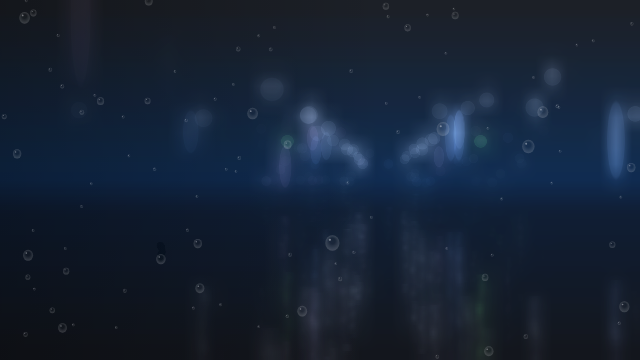
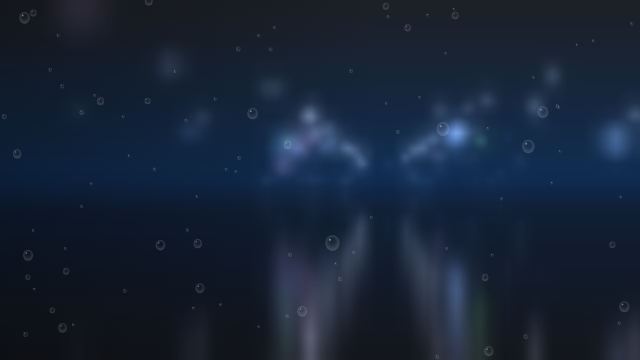
Rain on glass: every light a soft round glow, opaque in the middle and clear at the edge; reflections stay put and fade in smoothly instead of crawling upwards

diff --git a/effects/rain-glass/index.js b/effects/rain-glass/index.js
@@ -46,7 +46,7 @@ function readTones(host, scheme) {
 }
 
 // A fogged window on a rainy night, the street behind it out of focus: only its lights, as soft
-// discs. Lamps run off in rows, a cross street brings a row of its own, neon bars change colour and
+// discs. Lamps run off in rows, a cross street brings a row of its own, neon lights change colour and
 // flicker, the city glows far off; each light trembles as a long streak on the wet road. At the
 // crossing a traffic light turns: on red the cars on this street wait and the cross traffic goes.
 // On the glass, drops gather and now and then one runs down; a finger wipes fog and drops away, and
@@ -80,7 +80,7 @@ const SCENE = {
       r.beginPath(); r.moveTo(x, y); r.lineTo(x - len * 0.1, y + len); r.stroke();
     }
     for (let i = 0; i < w * h / 2600; i += 1) st.drops.push(drop(st, random() * w, random() * h));
-    // The lights of the street: lamps both sides and across the crossing, neon bars on the facades,
+    // The lights of the street: lamps both sides and across the crossing, neon on the facades,
     // and the far city as a scatter of small dim points.
     const L = st.lights = [], d = values.density / 100;
     for (let z = low ? 16 : 5; z < 80; z += 4 + random() * 5) for (const s of [-1, 1]) if (random() < 0.8) L.push({X: s * (4.6 + random()), Y: 5 + random() * 2, z: z + random() * 3, c: 'lamp', s: 0.3 + random() * 0.5, ph: random() * 9});
@@ -88,7 +88,7 @@ const SCENE = {
     for (let i = 0; i < 8 + d * 14; i += 1) {
       const s = random() < 0.5 ? -1 : 1, z = 7 + random() * 45;
       if (z > 19 && z < 25) continue;
-      L.push({X: s * (6.5 + random() * 2), Y: 2.5 + random() * 4, z, c: Math.floor(random() * 3), s: 0.35, bar: 1.2 + random() * 3, ph: random() * 40, kind: Math.floor(random() * 3)});
+      L.push({X: s * (6.5 + random() * 2), Y: 2.5 + random() * 4, z, c: Math.floor(random() * 3), s: 0.7 + random() * 1.3, ph: random() * 40, kind: Math.floor(random() * 3)});
     }
     for (let i = 0; i < 20 + d * 40; i += 1) L.push({X: (random() - 0.5) * 60, Y: 1 + random() ** 2 * 12, z: 50 + random() * 60, c: random() < 0.6 ? 'lamp' : Math.floor(random() * 3), s: 0.4, ph: random() * 40, dim: 0.15 + random() * 0.3});
     return st;
@@ -122,29 +122,29 @@ const SCENE = {
     g.addColorStop(0, rgba(tones.sky)); g.addColorStop(st.hor / h, rgba(mixc(tones.sky, P.glow, 0.6))); g.addColorStop(Math.min(1, st.hor / h + 0.08), rgba(mixc(tones.ground, P.glow, 0.3))); g.addColorStop(1, rgba(tones.ground));
     s.fillStyle = g; s.fillRect(0, 0, w, h);
     s.globalCompositeOperation = 'lighter';
-    const blob = (X, Y, z, colour, size, a, bar = 0) => {
-      const [x, y] = at(X, Y, z), p = st.f / z, r = size * p * 0.5 + st.blur, tall = bar * p;
+    const blob = (X, Y, z, colour, size, a) => {
+      const [x, y] = at(X, Y, z), p = st.f / z, r = size * p * 0.5 + st.blur * 1.6;
       // Bigger discs are dimmer; the left, under a banner's text, is quieter.
       a *= k * Math.min(1, ((size * p + 2) / r) ** 0.5) * (0.35 + 0.65 * smooth(clamp((x / w - 0.15) / 0.4, 0, 1)));
       if (a < 0.01 || x < -r * 2 || x > w + r * 2) return;
       const sp = sprite(st, colour);
       s.globalAlpha = Math.min(1, a);
-      s.drawImage(sp.disc, x - r, y - r - tall / 2, r * 2, r * 2 + tall);
-      // Its reflection: from the mirror point down towards the eye, trembling with the ripples.
+      s.drawImage(sp.disc, x - r, y - r, r * 2, r * 2);
+      // Its reflection: from the mirror point down towards the eye; it stays put and only trembles.
       const gy = at(X, 0, z)[1], ry = 2 * gy - y;
       if (ry <= st.hor) return;
-      const len = (ry - st.hor) * (st.low ? 3 : 2) + r * 2 + tall, off = (t * 40 + X * 31 + z * 7) % (sp.streak.height / 2);
-      s.globalAlpha = Math.min(1, a * 0.85);
-      s.drawImage(sp.streak, 0, off, sp.streak.width, sp.streak.height / 2, x - r * 0.9 + Math.sin(t * 3 + z) * r * 0.08, ry - r - tall / 2, r * 1.8, len);
+      const len = (ry - st.hor) * (st.low ? 3 : 2) + r * 2;
+      s.globalAlpha = Math.min(1, a * (0.55 + 0.08 * Math.sin(t * 2 + X + z)));
+      s.drawImage(sp.streak, x - r * 0.9 + Math.sin(t * 3 + z) * r * 0.06, ry - r, r * 1.8, len);
     };
     for (const l of st.lights) {
       let colour = l.c === 'lamp' ? P.lamp : P.neon[l.c], a = l.dim ?? 1;
-      // Neon: one bar drifts through the palette, one flickers now and then, one blinks.
+      // Neon: one light drifts through the palette, one flickers now and then, one blinks.
       if (l.kind === 0) { const u = (t * 0.05 + l.ph) % 3, i = Math.floor(u); colour = mixc(P.neon[i], P.neon[(i + 1) % 3], Math.round(smooth(u - i) * 12) / 12); }
       if (l.kind === 1 && (t + l.ph) % 9 > 8.2 && (t * 20) % 2 < 1) a *= 0.15;
       if (l.kind === 2) a *= (t + l.ph) % 4 < 2.6 ? 1 : 0.08;
       if (l.c === 'lamp') a *= 0.85 + 0.15 * Math.sin(t * 0.7 + l.ph);
-      blob(l.X, l.Y, l.z, colour, l.s, a * (st.low ? 0.4 : 0.65), l.bar);
+      blob(l.X, l.Y, l.z, colour, l.s, a * (st.low ? 0.45 : 0.78));
     }
     for (const X of [-5.5, 5.5]) for (let i = 0; i < 3; i += 1) {
       const on = i === (go ? 2 : red ? 0 : 1);
@@ -235,20 +235,19 @@ function wipe(st, x0, y0, x1, y1) {
     return Math.hypot(d.x - x0 - u * dx, d.y - y0 - u * dy) > 15 + d.r;
   });
 }
-// A light's out-of-focus disc, brighter at the rim as a lens draws it, and its streak on the wet
-// road, broken into dashes by ripples; one pair per colour.
+// A light: a round glow, opaque in the middle and clear at the edge, and its streak on the wet
+// road; one pair per colour.
 function sprite(st, colour) {
   const key = colour.map(Math.round).join();
   let sp = st.sprites.get(key);
   if (sp) return sp;
   const disc = new OffscreenCanvas(64, 64), d = disc.getContext('2d'), g = d.createRadialGradient(32, 32, 0, 32, 32, 32);
-  g.addColorStop(0, rgba(mixc(colour, [255, 255, 255], 0.25), 0.7)); g.addColorStop(0.8, rgba(colour, 0.75)); g.addColorStop(0.92, rgba(colour, 0.9)); g.addColorStop(1, rgba(colour, 0));
+  g.addColorStop(0, rgba(colour, 1)); g.addColorStop(1, rgba(colour, 0));
   d.fillStyle = g; d.fillRect(0, 0, 64, 64);
-  const streak = new OffscreenCanvas(16, 256), c = streak.getContext('2d');
-  for (let y = 0; y < 256; y += 2) {
-    const fade = 1 - (y % 128) / 128, dash = 0.3 + 0.7 * (0.5 + 0.5 * Math.sin(y * 0.37) * Math.sin(y * 0.11 + 1)) ** 2, x = Math.sin(y * 0.2) * 1.5;
-    const s = c.createLinearGradient(x, 0, 16 + x, 0);
-    s.addColorStop(0, rgba(colour, 0)); s.addColorStop(0.5, rgba(colour, fade ** 1.3 * dash)); s.addColorStop(1, rgba(colour, 0));
+  const streak = new OffscreenCanvas(16, 128), c = streak.getContext('2d');
+  for (let y = 0; y < 128; y += 2) {
+    const s = c.createLinearGradient(0, 0, 16, 0);
+    s.addColorStop(0, rgba(colour, 0)); s.addColorStop(0.5, rgba(colour, Math.min(1, y / 24) ** 1.5 * (1 - y / 128) ** 1.3)); s.addColorStop(1, rgba(colour, 0));
     c.fillStyle = s; c.fillRect(0, y, 16, 2);
   }
   sp = {disc, streak};
